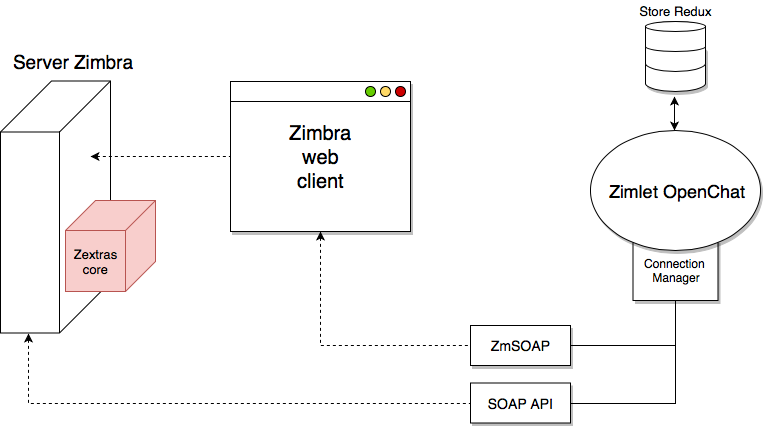
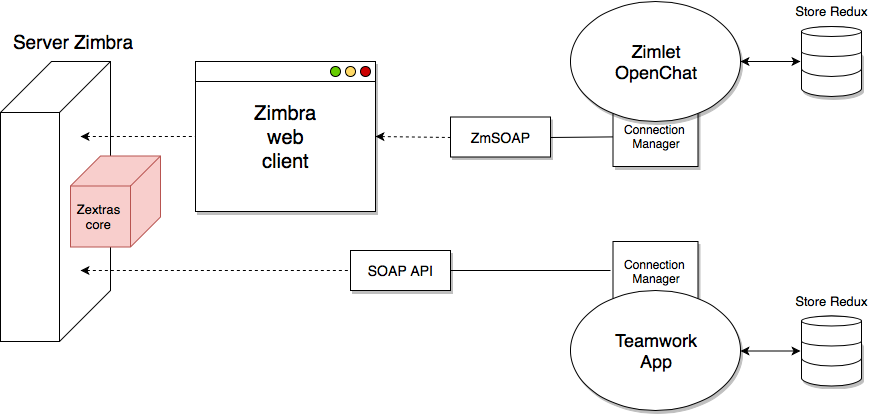
Architettura OpenChat v.2

diff --git a/res/sections/12-Design.tex b/res/sections/12-Design.tex
@@ -4,13 +4,16 @@
 
 \section {Progettazione architetturale}
 \subsection{Architettura OpenChat}
+Avendo dovuto basare l'applicazione sulla soluzione già implementata per il web dalla zimlet OpenChat è utile approfondire la sua architettura per comprendere le modifiche applicate. \\
+La comunicazione tra il server Zimbra e la zimlet OpenChat avviene attraverso una struttura SOAP, protocollo per lo scambio di messaggi tra componenti hardware.
+Questa struttura, nel caso della zimlet OpenChat, permette la comunicazione con il server indirettamente facendo passare gli eventi per il web client Zimbra che li gestisce in base ai propri bisogni prima di inviarli al server. \\
 \begin{figure}[H] 
 	\centering
-	\includegraphics[scale=0.5]{architettura2}
+	\includegraphics[scale=0.45]{architettura2}
 	\caption{Architettura OpenChat}
 \end{figure}
+Dato che l'applicazione Teamwork non interagisce con Zimbra web client è stata modificata la modalità di ricezione ed invio dei messaggi SOAP e la gestione di essi che avviene tramite un connection manager.
 \note{
-Avendo dovuto basare l'applicazione Teamwork sulla soluzione già implementata per il web dalla zimlet OpenChat è utile approfondire la sua architettura.
 La zimlet OpenChat interagisce con Zimbra grazie a delle connessioni SOAP. Questo permette la ricezione e l'invio di eventi anche da più sessioni contemporaneamente, mantenendo tra loro la sincronizzazione.\\
 l connection manager si occupa della ricezione degli eventi:
 
@@ -19,7 +22,14 @@ l connection manager si occupa della ricezione degli eventi:
 Una volta ottenuto un evento tramite degli handlers sarà facilmente aggiornato lo store Redux con cui è gestita l'informazione lato front-end.
 }
 
-\subsection{Connessione}
+\subsection{Gestione eventi}
+La trasmissione e la negoziazione di questi messaggi  basati sul metalinguaggio XML è regolata secondo i protocolli HTTP o SMTP, all'interno dei quali viene incapsulato il messaggio SOAP.
+\begin{figure}[H] 
+	\centering
+	\includegraphics[scale=0.4]{SOAP}
+	\caption{Struttura messaggio SOAP}
+\end{figure}
+
 \begin{figure}[H] 
 	\centering
 	\includegraphics[scale=0.6]{architettura}
